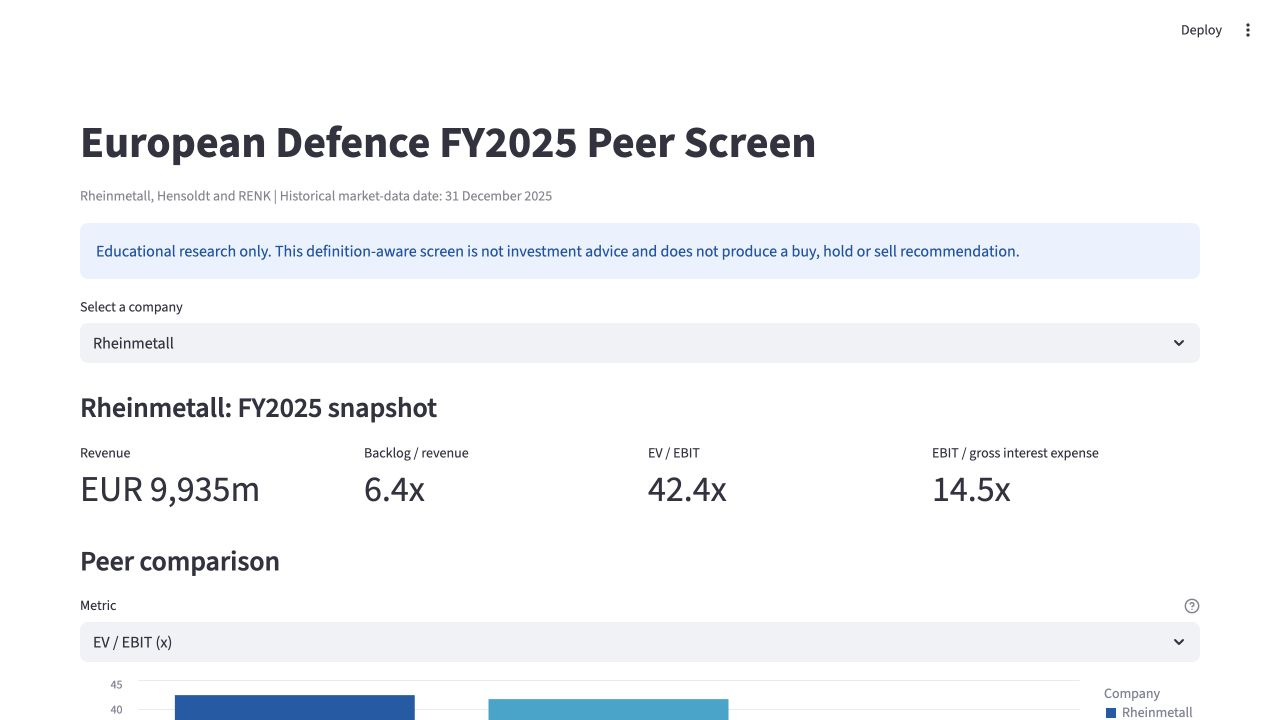
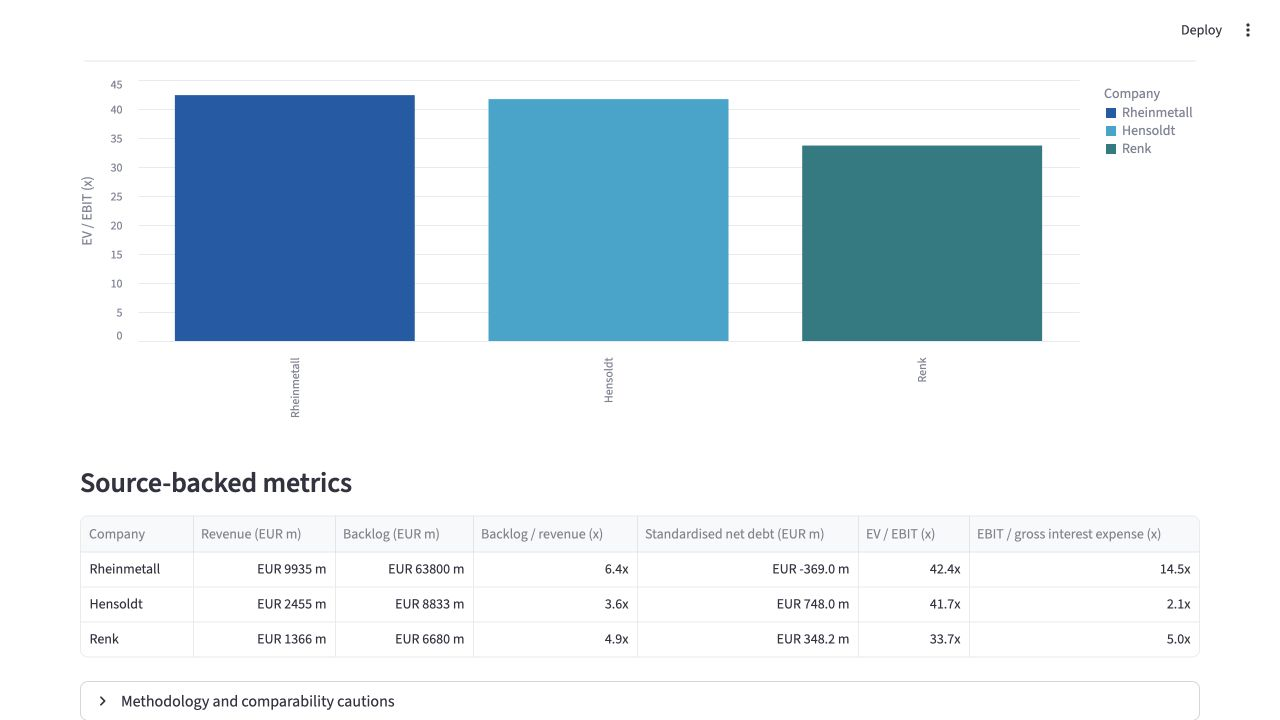
Improve peer-screen dashboard preview

diff --git a/README.md b/README.md
@@ -5,7 +5,7 @@ European defence sector. The peer universe is Rheinmetall, Hensoldt and Renk.
 
 ## Dashboard preview
 
-![European Defence FY2025 peer screen: Rheinmetall snapshot and EV EBIT comparison](assets/european-defence-peer-screen.png)
+![European Defence FY2025 peer screen: EV EBIT comparison and source-backed metrics for Rheinmetall, Hensoldt and Renk](assets/european-defence-peer-screen.png)
 
 ## Current research snapshot
 
